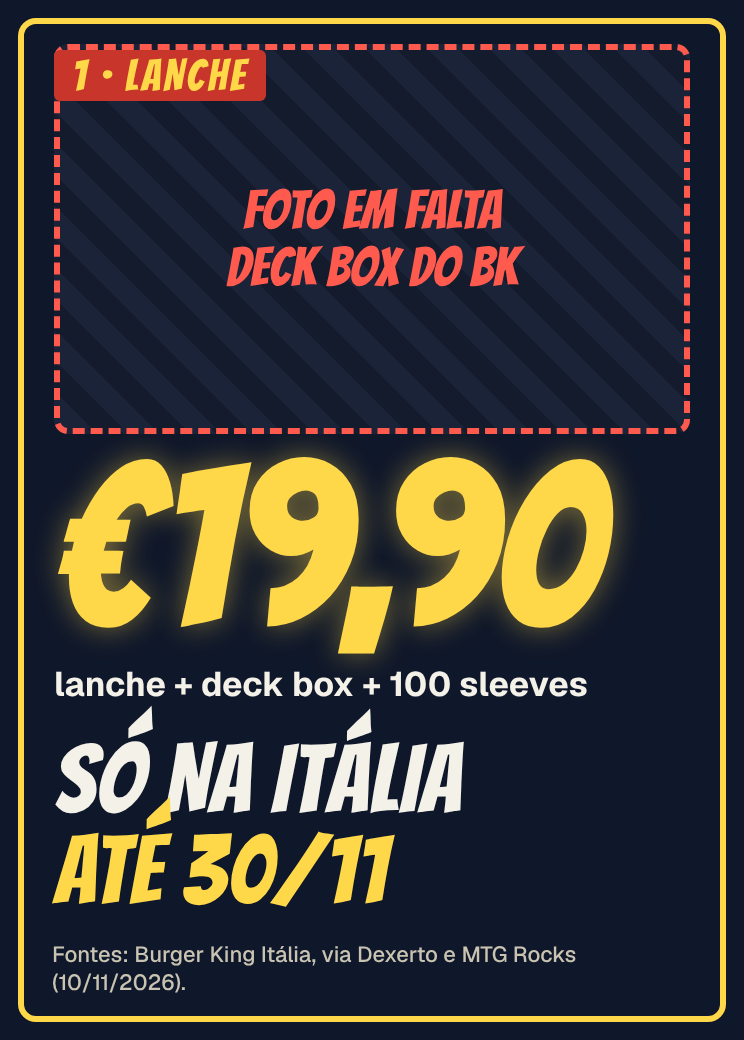
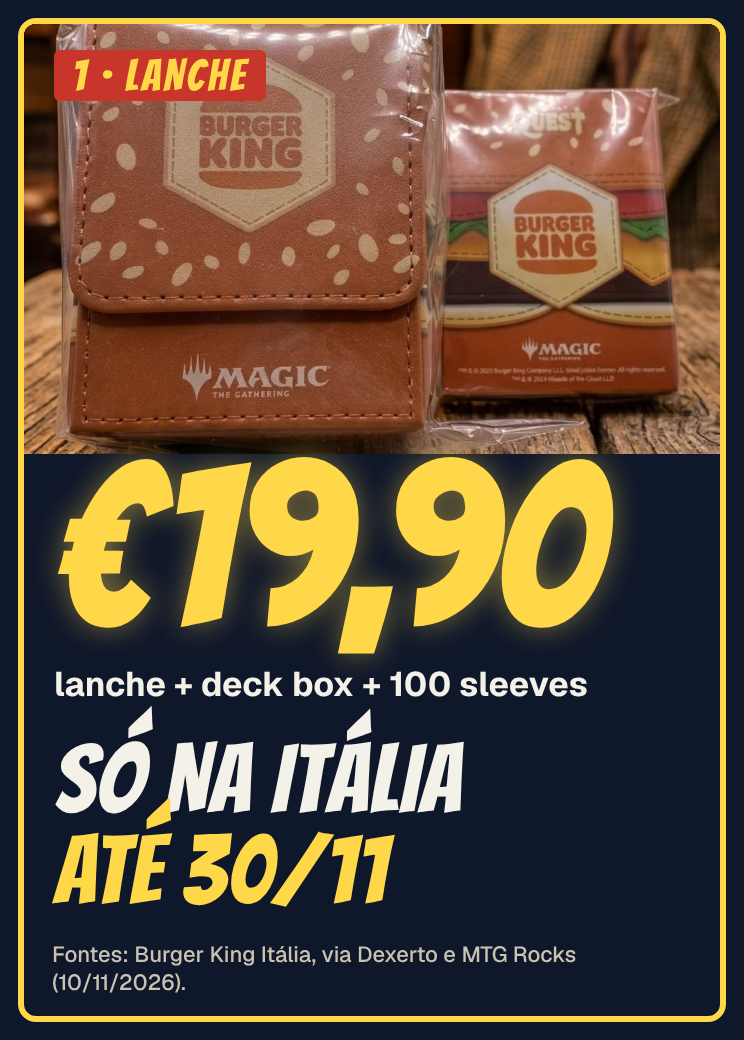
MB-GIRO03 v2 final: fotos do BK e da Netflix enviadas pelo fundador; 24/24 falas com imagem
Claude-Session: https://claude.ai/code/session_016gdr9dVUx8sh1bKo1nWx3n

diff --git a/manaburn/giro/2026-11-15/episode.js b/manaburn/giro/2026-11-15/episode.js
@@ -38,7 +38,7 @@ const EP = {
     ['rest', 'remote', 'other', 'cam', 'normal', 'up', 'cuM'],  // 24 M Comenta aí (TV desliga)
   ],
   inserts: [
-    { file: 'cards/ins_bk.png', line: 2, at: 0.05, until: 3, cred: 'Burger King Itália × Magic (imagem: Burger King Itália).' },
+    { file: 'cards/ins_bk.png', line: 2, at: 0.05, until: 3, cred: 'Burger King Itália × Magic (foto de divulgação).' },
     { file: 'cards/ins_brasil.png', line: 4, at: 0.05, until: 5, cred: 'Promoção só na Itália, até 30/11/2026.' },
     { file: 'cards/giro_chandra.png', line: 8, at: 0.05, until: 9, cred: 'Chandra, Torch of Defiance (KLD 110). Arte: Magali Villeneuve.' },
     { file: 'cards/giro_chandra.png', line: 10, at: 0.05, until: 11, cred: 'Chandra, Torch of Defiance (KLD 110). Arte: Magali Villeneuve.' },
@@ -50,7 +50,7 @@ const EP = {
       meter: { title: 'NOTÍCIAS', value: '3', fill: 0.6, calc: ['semana', '09 a 15/11', 'na legenda'], levels: [['QUENTE', '#FF5A4E'], ['MORNA', '#F4B414'], ['FRIA', '#6FB487']] },
       table: null },
     { de: 1, ch: 2, canal: '1 · LANCHE', img: 'cards/v02_bk.png',
-      cred: 'Imagem: Burger King Itália. Fontes: Dexerto e ICv2 (10/11/2026).',
+      cred: 'Foto: divulgação Burger King × Magic. Fontes: Dexerto e ICv2 (10/11/2026).',
       meter: { title: 'PREÇO DO COMBO', value: '€19,90', fill: 0.5, calc: ['lanche + deck box', '+ 100 sleeves', 'BK Itália'], levels: [['CARO', '#FF5A4E'], ['JUSTO', '#F4B414'], ['BARATO', '#6FB487']] },
       table: { label: ['SÓ NA', 'ITÁLIA'], value: 'ATÉ 30/11', note: ['final do torneio:', '27/11, Milão'] } },
     { de: 3, ch: 3, canal: '1 · LANCHE', img: 'cards/v04_preco.png',
@@ -62,7 +62,7 @@ const EP = {
       meter: { title: 'PREÇO DO COMBO', value: '€19,90', fill: 0.5, calc: ['lanche + deck box', '+ 100 sleeves', 'BK Itália'], levels: [['CARO', '#FF5A4E'], ['JUSTO', '#F4B414'], ['BARATO', '#6FB487']] },
       table: null },
     { de: 6, ch: 5, canal: '2 · STREAMING', img: 'cards/v07_netflix.png',
-      cred: 'Imagem: Netflix. Fontes: Netflix Tudum e Deadline (13/11/2026).',
+      cred: 'Imagem: Netflix (logótipo). Fontes: Netflix Tudum e Deadline (13/11/2026).',
       meter: { title: 'ESTREIA', value: '2027', fill: 0.3, calc: ['sem data', 'definida', 'Netflix'], levels: [['JÁ', '#FF5A4E'], ['LOGO', '#F4B414'], ['ESPERA', '#6FB487']] },
       table: { label: ['PROTAGONISTA', ''], value: 'CHANDRA', note: ['showrunner:', 'Terry Matalas'] } },
     { de: 7, ch: 6, canal: '2 · LÊ A CARTA', img: 'cards/giro_chandra.png',
@@ -112,7 +112,7 @@ const EP = {
       meter: { title: 'GRAU DE CERTEZA', value: '3/5', fill: 0.6, calc: ['previsão', 'Meta em Curto', 'EP07'], levels: [['ALTA', '#FF5A4E'], ['MÉDIA', '#F4B414'], ['BAIXA', '#6FB487']] },
       table: { label: ['PRESTAÇÃO', 'DE CONTAS'], value: '16/11', note: ['segunda', 'Meta em Curto'] } },
     { de: 22, ch: 17, canal: 'COMENTA 1, 2 OU 3', img: 'cards/v23_comenta.png',
-      cred: 'Imagens: Burger King Itália; Netflix; Biotech Specialist (EOE 214). © Wizards of the Coast. Conteúdo de fã não oficial.',
+      cred: 'Imagens: divulgação Burger King × Magic; Netflix; Biotech Specialist (EOE 214). © Wizards of the Coast. Conteúdo de fã não oficial.',
       meter: { title: 'NOTÍCIAS', value: '3', fill: 0.6, calc: ['semana', '09 a 15/11', 'na legenda'], levels: [['QUENTE', '#FF5A4E'], ['MORNA', '#F4B414'], ['FRIA', '#6FB487']] },
       table: null },
   ],

diff --git a/manaburn/giro/2026-11-15/telas_visuais.py b/manaburn/giro/2026-11-15/telas_visuais.py
@@ -65,7 +65,7 @@ TELAS = {
   'v02_bk': f"""<div class="f"><span class="badge">1 · LANCHE</span>{foto('foto_bk.jpg', 0, 640, 'deck box + sleeves<br>do Burger King Itália')}
      <div style="position:absolute;left:30px;right:30px;top:668px" class="big">DECK BOX<br><em>+ 100 SLEEVES</em></div>
      <div style="position:absolute;left:30px;top:880px" class="sub">no lanche do <span class="y">Burger King Itália</span></div>
-     <div class="fonte">Imagem: Burger King Itália. Fontes: Dexerto, ICv2 (10/11/2026).</div></div>""",
+     <div class="fonte">Foto: divulgação Burger King × Magic. Fontes: Dexerto, ICv2 (10/11/2026).</div></div>""",
   # 4 · M «Dezenove e noventa euros. Só na Itália, até dia 30»
   'v04_preco': f"""<div class="f"><span class="badge">1 · LANCHE</span>{foto('foto_bk.jpg', 0, 430, 'deck box do BK')}
      <div style="position:absolute;left:24px;top:420px" class="giant">€19,90</div>
@@ -82,7 +82,7 @@ TELAS = {
   'v07_netflix': f"""<div class="f"><span class="badge">2 · STREAMING</span>{foto('foto_netflix.jpg', 0, 600, 'primeiro olhar<br>de PLANESWALKER (Netflix)')}
      <div style="position:absolute;left:30px;right:30px;top:625px" class="big">PLANES-<br><em>WALKER</em></div>
      <div style="position:absolute;left:30px;top:830px" class="sub">série animada · Netflix · <span class="y">2027</span></div>
-     <div class="fonte">Imagem: Netflix. Fontes: Netflix Tudum, Deadline (13/11/2026).</div></div>""",
+     <div class="fonte">Imagem: Netflix (logótipo). Fontes: Netflix Tudum, Deadline (13/11/2026).</div></div>""",
   # 12 · M «A semana no BINDER. O Burn sofreu com o Numot» — capa real do EP11
   'v12_numot_ep': f"""<div class="f"><span class="badge">A SEMANA NO BINDER</span>
      <img src="{u('mb_ep11_capa_34.jpg')}" style="position:absolute;left:84px;top:110px;width:564px">

diff --git a/manaburn/giro/2026-11-15/ficha.md b/manaburn/giro/2026-11-15/ficha.md
@@ -1,6 +1,6 @@
 # Ficha · Mana & Burn · Giro de domingo nº 3 · semana 09–15/11/2026
 
-Código: `MB-GIRO03`. Pasta: `manaburn/giro/2026-11-15/`. **Produzido, não publicado** (15/11/2026). Pedido do fundador (01:58): «Faça o episódio de giro da semana e inclua Burger King e outros temas da semana»; às 02:07: «Faltou falar dos episódios da semana que tivemos».
+Código: `MB-GIRO03`. Pasta: `manaburn/giro/2026-11-15/`. **Produzido, não publicado** (15/11/2026). Versão a publicar: v2 (feedback visual em cada fala, 03:50). Pedido do fundador (01:58): «Faça o episódio de giro da semana e inclua Burger King e outros temas da semana»; às 02:07: «Faltou falar dos episódios da semana que tivemos».
 
 ## Classificação
 - Série: Mana & Burn · formato derivado Giro de domingo (`manaburn/PERFIL.md`)
@@ -34,12 +34,12 @@ Pedido do fundador (03:08): imagem do que se fala em cada fala, na TV; quadro 0 
 | Fala | Plano | Imagem |
 |---|---|---|
 | 1 | tv | abertura com Chandra e Numot (quadro 0 de Magic) |
-| 2 | tv2 | foto da deck box + sleeves do BK (**foto em falta**) |
-| 3 | cuB | insert: foto da deck box (**em falta**) |
-| 4 | tv2 | «€19,90 · só na Itália até 30/11» com a foto (**em falta**) |
+| 2 | tv2 | foto da deck box + sleeves do BK (enviada pelo fundador, 03:35) |
+| 3 | cuB | insert: foto da deck box |
+| 4 | tv2 | «€19,90 · só na Itália até 30/11» com a foto |
 | 5 | cuB | insert «Itália sim, Brasil não (por enquanto)» |
 | 6 | tv2 | «Se der certo, pode expandir» + carimbo «Nada decidido» (paráfrase do Blogatog) |
-| 7 | tv | imagem do primeiro olhar de PLANESWALKER (**foto em falta**) |
+| 7 | tv | logótipo da Netflix + «PLANESWALKER · 2027» (imagem enviada pelo fundador; os cartazes do fundo foram desfocados e escurecidos para não mostrar rostos de pessoas reais) |
 | 8 | tv2 | carta Chandra, Torch of Defiance |
 | 9, 11 | cuB | insert: carta da Chandra |
 | 10 | tvtext | Chandra com o −3 destacado |
@@ -57,7 +57,7 @@ Pedido do fundador (03:08): imagem do que se fala em cada fala, na TV; quadro 0 
 | 23 | tv | as três opções numeradas com miniaturas |
 | 24 | cuM | «Comenta aí» → TV desliga |
 
-- Fotos em falta: a sessão não chega aos sites de notícias (rede fechada) e o navegador não estava ligado. Entram como `cards/src/foto_bk.jpg` (Burger King Itália) e `cards/src/foto_netflix.jpg` (Netflix); depois `python3 telas_visuais.py` e novo render (sem créditos).
+- Fotos: a sessão não chegava aos sites de notícias; o fundador enviou as duas imagens a 15/11 (03:35): `cards/src/foto_bk.jpg` (deck box + sleeves, crédito «divulgação Burger King × Magic») e `cards/src/foto_netflix.jpg` (logótipo da Netflix, fundo desfocado). Render final sem créditos novos.
 - Comentário fixado: a citação longa do Rosewater passou a paráfrase (regra de citação curta).
 - Par de publicação (MB-EP11 ponto 6): carrossel Lambe-lambe no dia seguinte, «Sleeve nova pede coleção organizada»: deck box e sleeves → escanear as cartas com o BINDER Vision e ver o valor de referência (só funções reais: scanner e valor, como no fecho), com pedido de instalação e link da bio.
 
@@ -109,3 +109,14 @@ Ver `fontes.md`.
 | Retenção | quadro 0 com Magic; mudança visual ≤ 3 s; som em cada revelação | quadro 0 = tela «Giro de domingo» da TV SAL com 1-2-3 (sem carta: P2); 23 cortes em 70 s (maior intervalo 5,5 s entre 21,6 e 27,0 s, com troca de tela na TV a meio); som de troca de canal em cada canal e de destaque nas 2 leituras | sim (P2 no quadro 0) |
 | Pronúncia | ouvida | **não ouvida** | P1 a confirmar pelo fundador |
 | Afirmações | todas com fonte | `fontes.md` | sim |
+
+### v2 final (15/11/2026, 03:50) · ficheiro `ManaBurn_Giro_2026-11-15_916.mp4`
+| Critério | Medido | OK |
+|---|---|---|
+| Formato / duração | 1080×1920, 30 fps, 74,07 s (70,2 s + fecho) | sim |
+| Loudness / pico | −14,5 LUFS, −1,2 dBTP | sim |
+| `qc_video.py` | «Sem problemas mensuráveis» | sim |
+| cropdetect | 2220/2220 quadros 1080:1920:0:0 | sim |
+| Feedback visual | 24/24 falas com imagem real (17 telas na TV + 5 inserts nos grandes planos + 2 leituras com destaque); nenhuma «FOTO EM FALTA» (conferido a 0,3 / 7 / 11 / 19 / 23 / 66 s e na folha de contacto) | sim |
+| Quadro 0 | Chandra e Numot na TV | sim |
+| Pronúncia | não ouvida | P1 a confirmar |

diff --git a/STATUS.md b/STATUS.md
@@ -18,7 +18,7 @@ Frentes ativas: Mana & Burn, Conde de Manaforte, Meta em Curto (séries); **Vinc
 
 ## Em produção
 
-- **MB-GIRO03 «Giro de domingo nº 3»** (15/11): Burger King Itália × Magic, PLANESWALKER (Netflix) com «Lê a carta» da Chandra, a semana no BINDER (Numot, Conde EP005, TUBO EP07/ESP01/ESP02, Nauctis) e chamada para o TUBO de segunda. **CONCLUÍDO, não publicado.** Pacote: `manaburn/giro/2026-11-15/` (vozes 1.697 créditos, flow `xiCL5Tg0uv0l1swiXKMd`). **v2 com feedback visual em cada fala (padrão novo de 15/11, 03:08) renderizada como prévia: faltam a foto da deck box do BK e a imagem da Netflix** (`cards/src/foto_bk.jpg`, `cards/src/foto_netflix.jpg`; depois `telas_visuais.py` e render, sem créditos). Antes de publicar: ouvir a pronúncia; confirmar que «o spoiler da nova edição» é a EX-01 (o registo da EX-01 não foi mudado) e o foco de 3 palavras da capa.
+- **MB-GIRO03 «Giro de domingo nº 3»** (15/11): Burger King Itália × Magic, PLANESWALKER (Netflix) com «Lê a carta» da Chandra, a semana no BINDER (Numot, Conde EP005, TUBO EP07/ESP01/ESP02, Nauctis) e chamada para o TUBO de segunda. **CONCLUÍDO, não publicado.** Pacote: `manaburn/giro/2026-11-15/` (vozes 1.697 créditos, flow `xiCL5Tg0uv0l1swiXKMd`). **v2 final com feedback visual em cada fala** (padrão novo de 15/11, 03:08; fotos do BK e da Netflix enviadas pelo fundador às 03:35). Antes de publicar: ouvir a pronúncia; confirmar que «o spoiler da nova edição» é a EX-01 (o registo da EX-01 não foi mudado) e o foco de 3 palavras da capa.
 
 - **LL-ART13 «7 cartas. Uma artista brasileira.»** (14/11): carrossel de 7 slides sobre Nathanna Érica nos Special Guests de Lorwyn Eclipsed. **CONCLUÍDO, não publicado.** Pacote: `lambe-lambe/episodios/ll-art13_nathanna_sete_cartas/`. Antes de publicar: o fundador confirma a autorização da artista para a foto do slide 6. Primeiro carrossel com o **modelo pronto sem ElevenLabs** (`lambe-lambe/referencias/carrossel_padrao_0{1,2}.png` + `lambe-lambe/kit_carrossel/motor_padrao.py`). Conflito de ID: a branch `lambe/artistas-carrosseis` usa LL-ART13–18; renumerar ao integrá-la (`nucleo/DECISOES.md`, 14/11).
 
